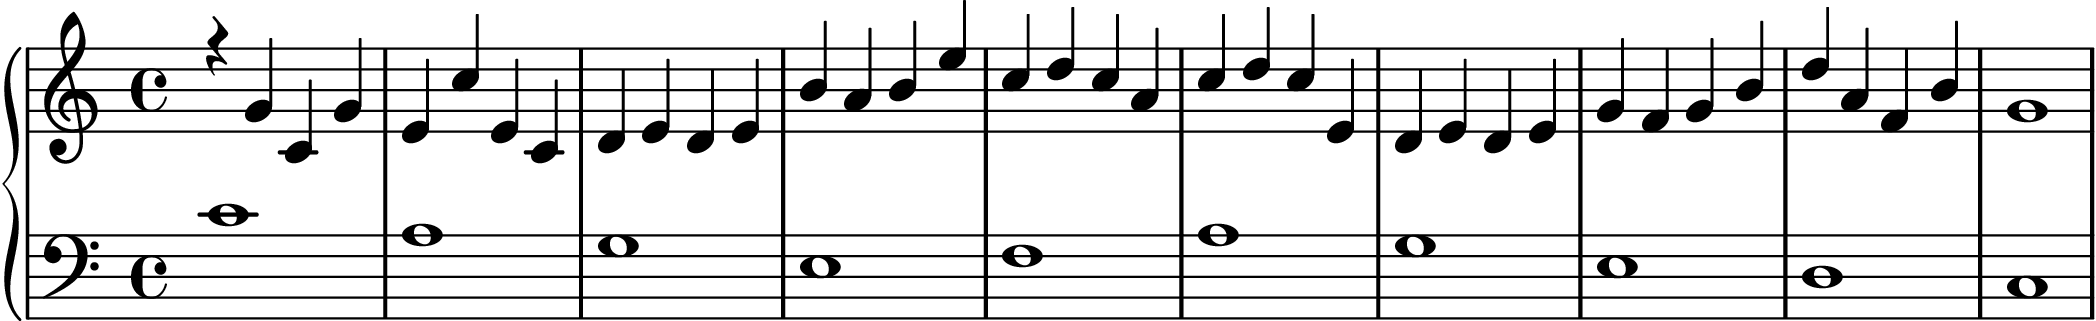
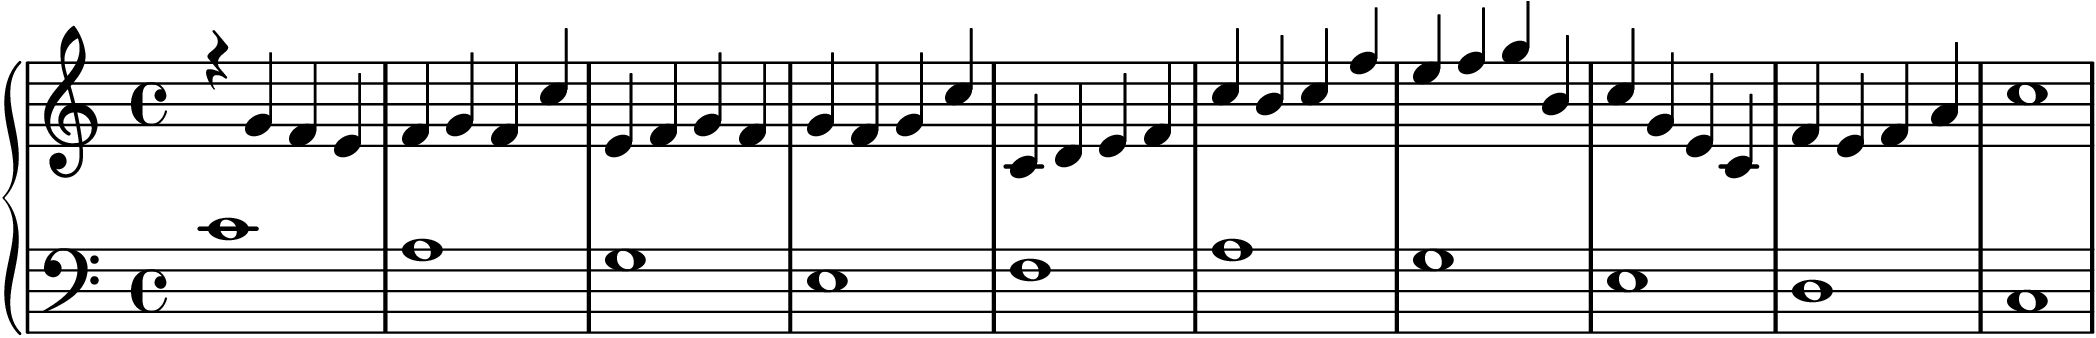
対位法の実行サンプルを更新

Changed region(s): [[0.0, 0.0312, 1.0, 0.9969]]

diff --git a/README.md b/README.md
@@ -41,7 +41,7 @@ open dist/out.png.cropped.png
 
 ## 対位法の実行例
 
-実行のたびに結果が変わります。連続のチェックとか入ってないです
+実行のたびに結果が変わります。連続のチェック入ってます。数音間の旋律音程は確認してないです
 
 ### 1
 
